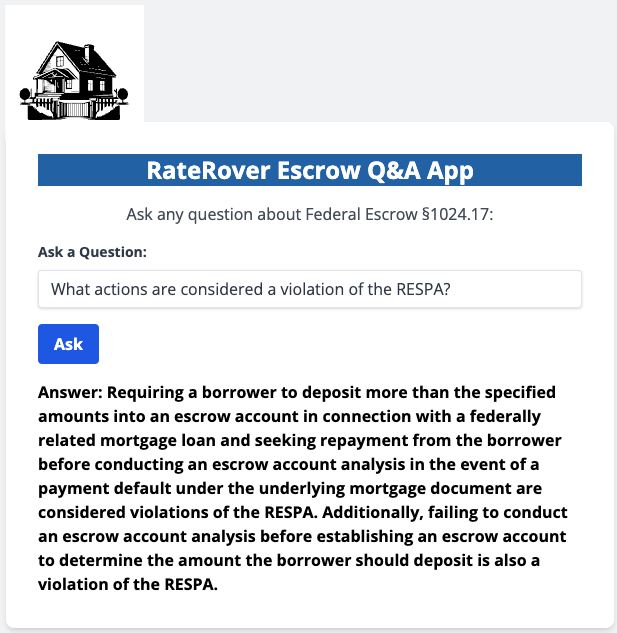
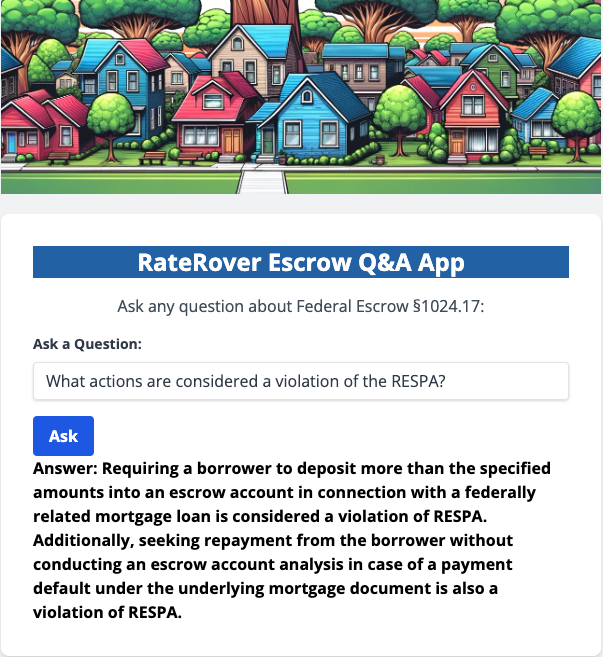
assets updated

diff --git a/app/frontend/templates/index5.html b/app/frontend/templates/index5.html
@@ -3,104 +3,79 @@
 <head>
     <meta charset="UTF-8">
     <meta name="viewport" content="width=device-width, initial-scale=1.0">
-    <title>FastAPI Frontend</title>
-    <!-- Favicon -->
-    <link rel="icon" type="image/png" href="{{ url_for('static', filename='favicon.png')}}" >   
+    <title>RateRover Escrow Q&A App</title>
+    <link rel="icon" type="image/png" href="{{ url_for('static', filename='favicon.png')}}">
     <link href="https://cdn.jsdelivr.net/npm/tailwindcss@2.1.2/dist/tailwind.min.css" rel="stylesheet">
-    <!-- Add Google Fonts link for a custom font -->
     <link href="https://fonts.googleapis.com/css2?family=Open+Sans:wght@400;600;700&display=swap" rel="stylesheet">
     <style>
-         /* Resets the margin for all elements to remove default margins */
         * {
             margin: 0;
             padding: 0;
-            box-sizing: border-box; /* Ensures padding doesn't affect overall width */
+            box-sizing: border-box;
         }
 
-        /* Style for the main container to center it on the page */
-        .container {
-            max-width: 640px;
-            width: 100%;
-            padding-top: 0; 
-            margin-top: 0;
-            /* Add vertical padding if needed for spacing within the container */
-            padding-bottom: 20px;
-        }
-
-        /* If the logo container still has too much space, adjust padding here */
-        .logo-container {
-            padding: 10px 20px; /* Reduced top and bottom padding */
-        }
-
-        /* Removes margin from the first element after .logo-container, if any */
-        .logo-container + * {
-            margin-top: 0;
-        }
-
-        /* Ensures there's no margin above the h1 common in user agent styles */
-        h1 {
-            margin-top: 0;
-        }
         body {
-            font-family: 'Open Sans', sans-serif; /* Use the custom Google Font */
-        }
-        .header-color {
-            background-color: #2b6cb0; /* Hex code matches the specific blue from the logo image */
-        }
-        .text-special {
-            font-weight: 700; /* bolder font similar to the one in the image */
-        }
-        .logo-container {
-            text-align: center; /* Center the logo horizontally */
-            padding: 20px;     /* Add some padding around the logo */
-        }
-        body {
+            font-family: 'Open Sans', sans-serif;
+            background-color: #f7fafc; /* Adjusted to match Tailwind bg-gray-100 */
             margin: 0;
             padding: 0;
         }
 
-    svg-container {
-        width: 200px;  
-        height: 200px; 
-        overflow: hidden; 
-        position: relative;
-    }
+        .container {
+            max-width: 640px;
+            width: 100%;
+            margin-top: 0;
+            padding: 20px;
+            margin-left: auto;
+            margin-right: auto;
+        }
 
-    .svg-container img {
-        position: absolute;
-        top: 50px; 
-        left: 100px;
-        width: 350px;
-        height: auto;
-    }
+        .header-color {
+            background-color: #2b6cb0;
+        }
+
+        .text-special {
+            font-weight: 700;
+        }
+
+        .svg-container {
+            text-align: center; /* Center the SVG image horizontally */
+            margin-top: 1px;
+            margin-bottom: 20px; /* Add space below the SVG container */
+        }
+
+        .svg-container img {
+            width: 100%; /* Make SVG responsive to container size */
+            max-width: 200px; /* Maximum width can be adjusted as needed */
+            height: auto;
+        }
 
     </style>
 </head>
-<body class="bg-gray-100 flex items-center justify-center h-screen">
+<body class="bg-gray-100 flex items-center justify-center min-h-screen">
     <div class="container mx-auto px-4">
         <div class="svg-container">
-            <img  src="{{ url_for('static', filename='neighborhood.jpg')}}" alt="Neighborhood" />
+            <img src="{{ url_for('static', filename='neighborhood.jpg')}}" alt="Neighborhood" style="max-width: 100%;" />
+
         </div>
-        
-        <!-- <div class="logo-container">
-            <img src="{{ url_for('static', filename='logo2.png') }}" alt="Logo" width="100" />
-        </div> -->
         <div class="bg-white p-8 rounded-lg shadow-md">
             <h1 class="text-2xl header-color text-white font-bold text-center mb-4">RateRover Escrow Q&A App</h1>
             <p class="text-gray-600 text-center mb-4">Ask any question about Federal Escrow §1024.17:</p>
-            <!-- Form -->
-            <form id="askForm" class="mb-4">
+            <!-- Start of the form element -->
+            <form id="askForm">
                 <div class="mb-4">
                     <label for="question" class="block text-gray-700 text-sm font-bold mb-2">Ask a Question:</label>
                     <input type="text" id="question" name="question" class="shadow appearance-none border rounded w-full py-2 px-3 text-gray-700 leading-tight focus:outline-none focus:shadow-outline" placeholder="Enter your question">
                 </div>
                 <button type="submit" class="bg-blue-600 hover:bg-blue-800 text-white font-bold py-2 px-4 rounded focus:outline-none focus:shadow-outline">Ask</button>
             </form>
-            <!-- Answer -->
+            <!-- Answer will be displayed here -->
             <p id="answer" class="text-special text-black"></p>
+
+            <!-- Rest of your content -->
         </div>
     </div>
-    <!-- scripts -->
+    <!-- Your scripts -->
     <script>
         const form = document.getElementById('askForm');
         form.addEventListener('submit', (event) => {

diff --git a/app/frontend/frontend.py b/app/frontend/frontend.py
@@ -7,7 +7,7 @@ FASTAPI_BACKEND_URL = "http://127.0.0.1:8000/rag-chroma/invoke"  # Make sure to 
 
 @app_FRONT.route('/')
 def index():
-    return render_template('index4.html')  # Just render the form on the index route
+    return render_template('index5.html')  # Just render the form on the index route
 
 @app_FRONT.route('/ask', methods=['POST'])
 def ask():

diff --git a/app/server.py b/app/server.py
@@ -37,6 +37,6 @@ def ask(question: Question):
 if __name__ == "__main__":
     import uvicorn
 
-    uvicorn.run(app, host="0.0.0.0", port=8000)
-    # uvicorn.run(app, host="127.0.0.1", port=8000)
+    # uvicorn.run(app, host="0.0.0.0", port=8000)
+    uvicorn.run(app, host="127.0.0.1", port=8000)
 
